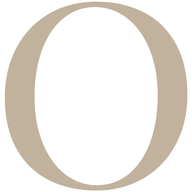
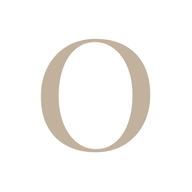
Rehace el ícono de la app con más margen (menos alargado) y agrega un ícono de engrane propio para el panel de admin, para distinguirlos en la pantalla de inicio
Claude-Session: https://claude.ai/code/session_011Uf8MRqjj1h8Xp36vf2xvC

diff --git a/admin/index.html b/admin/index.html
@@ -5,6 +5,9 @@
   <meta name="viewport" content="width=device-width, initial-scale=1.0" />
   <title>Administrar contenido · Origen Brows & Hair Studio</title>
   <meta name="robots" content="noindex" />
+  <link rel="manifest" href="../manifest-admin.json" />
+  <meta name="theme-color" content="#211b15" />
+  <link rel="apple-touch-icon" href="../assets/icon-admin-192.png" />
 </head>
 <body>
   <!-- Enlace fijo de regreso al panel (Citas/Lealtad/Reportes/Finanzas). Decap

diff --git a/admin/clientas.html b/admin/clientas.html
@@ -5,6 +5,9 @@
 <meta name="viewport" content="width=device-width, initial-scale=1.0" />
 <title>Clientas · Origen Brows &amp; Hair Studio</title>
 <meta name="robots" content="noindex" />
+<link rel="manifest" href="../manifest-admin.json" />
+<meta name="theme-color" content="#211b15" />
+<link rel="apple-touch-icon" href="../assets/icon-admin-192.png" />
 <link rel="stylesheet" href="../css/style.css" />
 <style>
   body { background: var(--color-cream-soft); }

diff --git a/admin/finanzas.html b/admin/finanzas.html
@@ -5,6 +5,9 @@
 <meta name="viewport" content="width=device-width, initial-scale=1.0" />
 <title>Finanzas · Origen Brows &amp; Hair Studio</title>
 <meta name="robots" content="noindex" />
+<link rel="manifest" href="../manifest-admin.json" />
+<meta name="theme-color" content="#211b15" />
+<link rel="apple-touch-icon" href="../assets/icon-admin-192.png" />
 <link rel="stylesheet" href="../css/style.css" />
 <style>
   body { background: var(--color-cream-soft); }

diff --git a/admin/reportes.html b/admin/reportes.html
@@ -5,6 +5,9 @@
 <meta name="viewport" content="width=device-width, initial-scale=1.0" />
 <title>Reportes · Origen Brows &amp; Hair Studio</title>
 <meta name="robots" content="noindex" />
+<link rel="manifest" href="../manifest-admin.json" />
+<meta name="theme-color" content="#211b15" />
+<link rel="apple-touch-icon" href="../assets/icon-admin-192.png" />
 <link rel="stylesheet" href="../css/style.css" />
 <style>
   body { background: var(--color-cream-soft); }

diff --git a/admin/lealtad.html b/admin/lealtad.html
@@ -5,6 +5,9 @@
 <meta name="viewport" content="width=device-width, initial-scale=1.0" />
 <title>Lealtad · Origen Brows &amp; Hair Studio</title>
 <meta name="robots" content="noindex" />
+<link rel="manifest" href="../manifest-admin.json" />
+<meta name="theme-color" content="#211b15" />
+<link rel="apple-touch-icon" href="../assets/icon-admin-192.png" />
 <link rel="stylesheet" href="../css/style.css" />
 <style>
   body { background: var(--color-cream-soft); }

diff --git a/admin/citas.html b/admin/citas.html
@@ -5,6 +5,9 @@
 <meta name="viewport" content="width=device-width, initial-scale=1.0" />
 <title>Citas · Origen Brows & Hair Studio</title>
 <meta name="robots" content="noindex" />
+<link rel="manifest" href="../manifest-admin.json" />
+<meta name="theme-color" content="#211b15" />
+<link rel="apple-touch-icon" href="../assets/icon-admin-192.png" />
 <link rel="stylesheet" href="../css/style.css" />
 <style>
   body { background: var(--color-cream-soft); }
